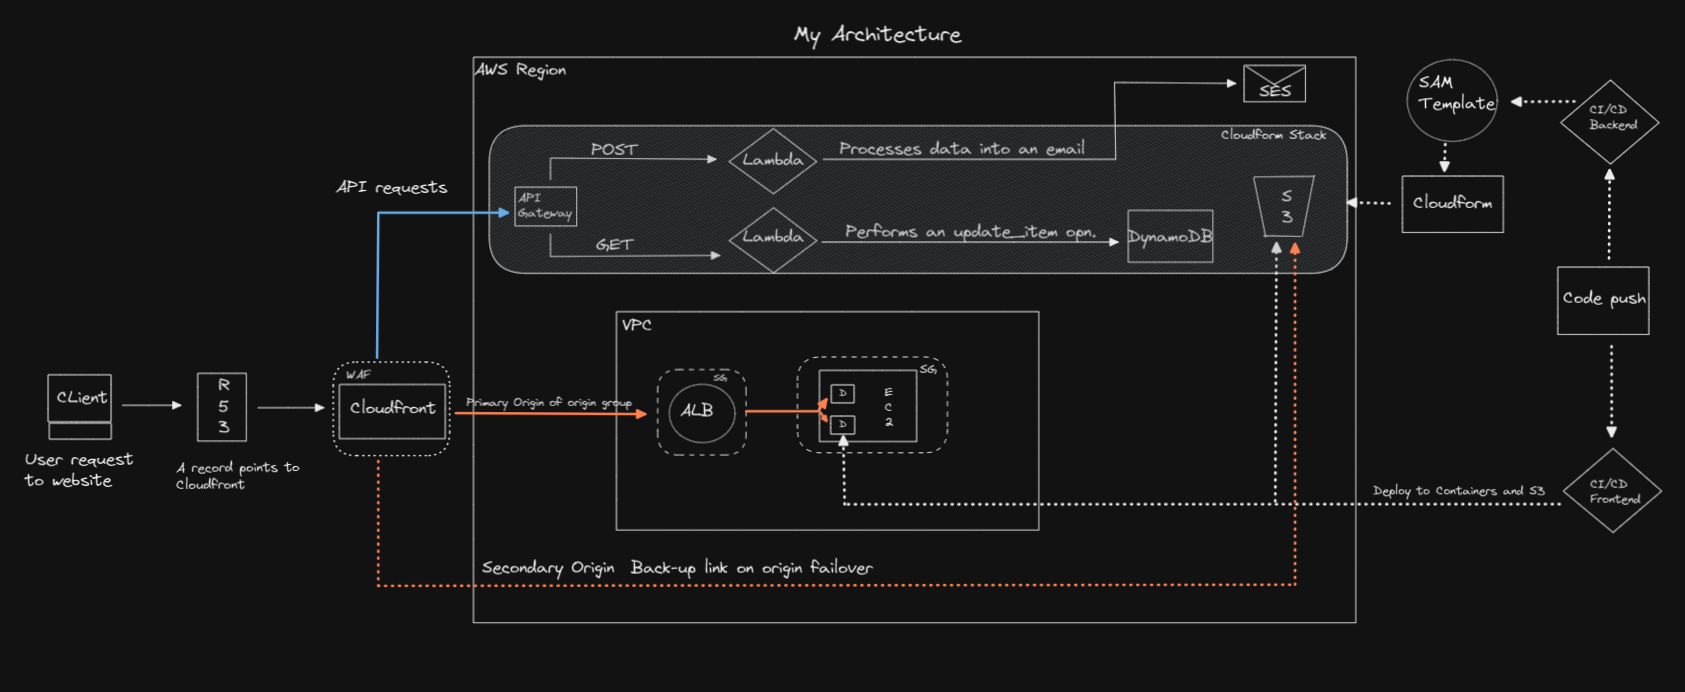
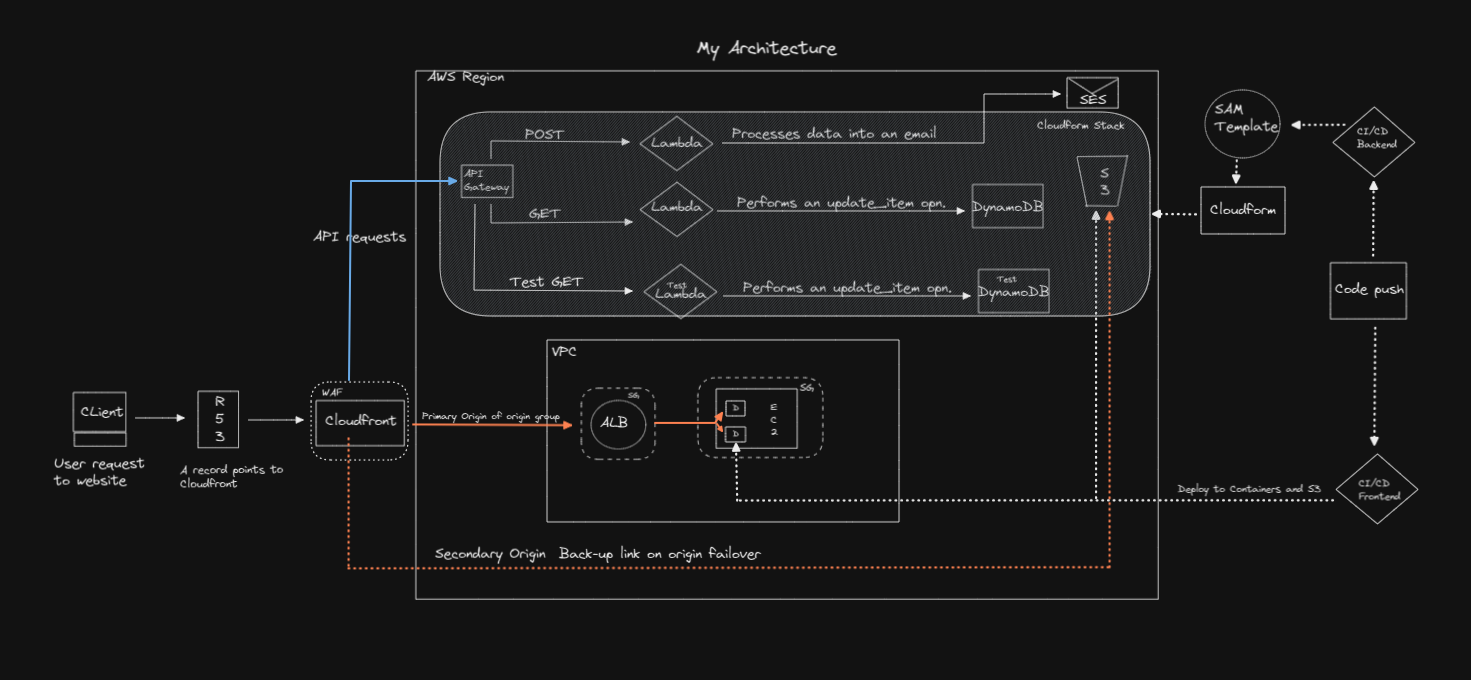
Architecture picture changes

diff --git a/index.html b/index.html
@@ -115,9 +115,10 @@
       <p>
         I added a couple extra services in there, modified it to play around a
         little more. The core concept of the challenge still remains in place
-        though and that was always the first thing on my mind. And as we go on
+        though and that was always the first thing on my mind. The serverless part(the cloudformation stack)
+        also consists of an extra lambda function, api and a Dynamodb table for testing purposes. And as we go on
         with this write-up, I will do my best to explain what each part of this
-        architecture hopes to achieve.
+        architecture hopes to achieve. 
       </p>
     </div>
 
@@ -578,6 +579,16 @@
         python test. It stands somewhere between a unittest and an integration
         test, but it works as intended and I'm happy with the final script.
       </p>
+      <figure class="figure d-block py-4">
+        <img
+          src="./images/test environment cloud.PNG"
+          class="img-fluid mx-auto d-block p-2"
+          alt="Extra testing on the cloud"
+        />
+        <figcaption id="caption" class="figure-caption text-center p-4">
+          Test Environment setup in the cloud.
+        </figcaption>
+      </figure>
       <p>
         As for my node function that processes an email, I didn't see the need
         to create a demo/test environment. I decided to use jest again in order
